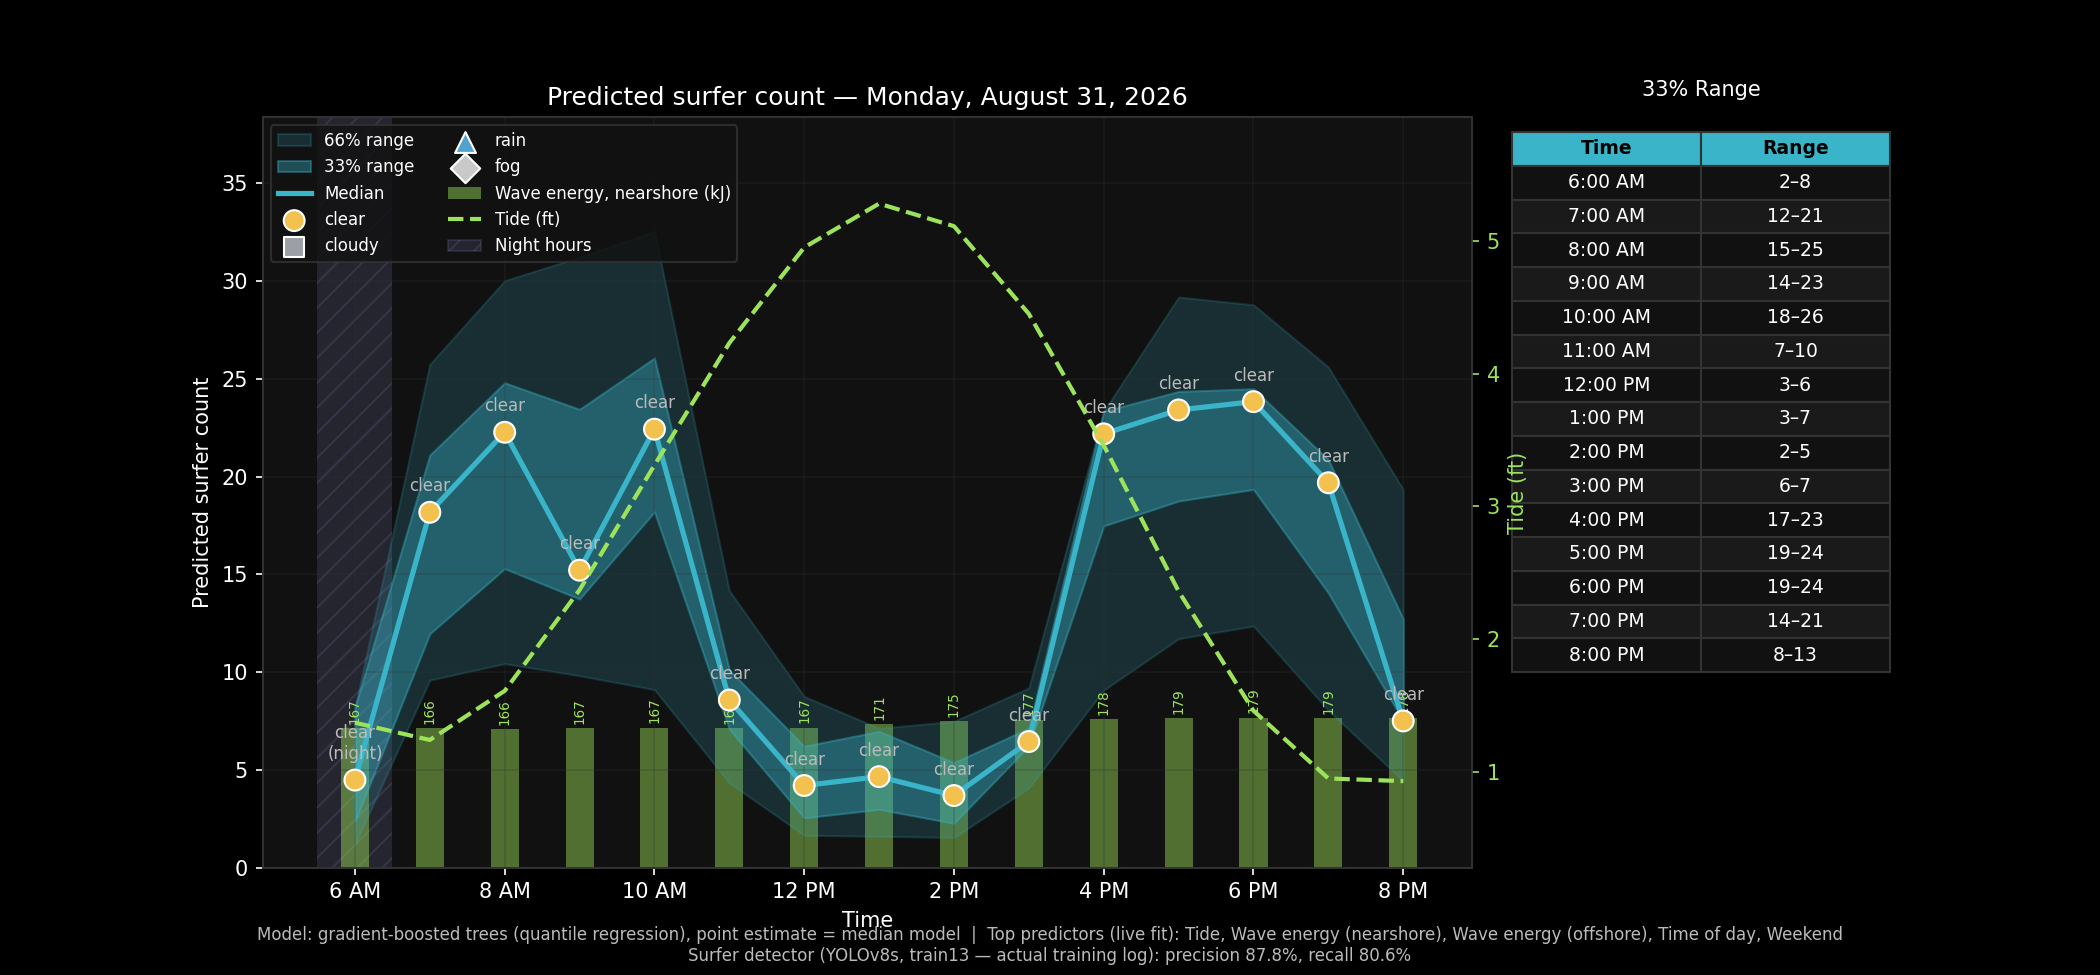
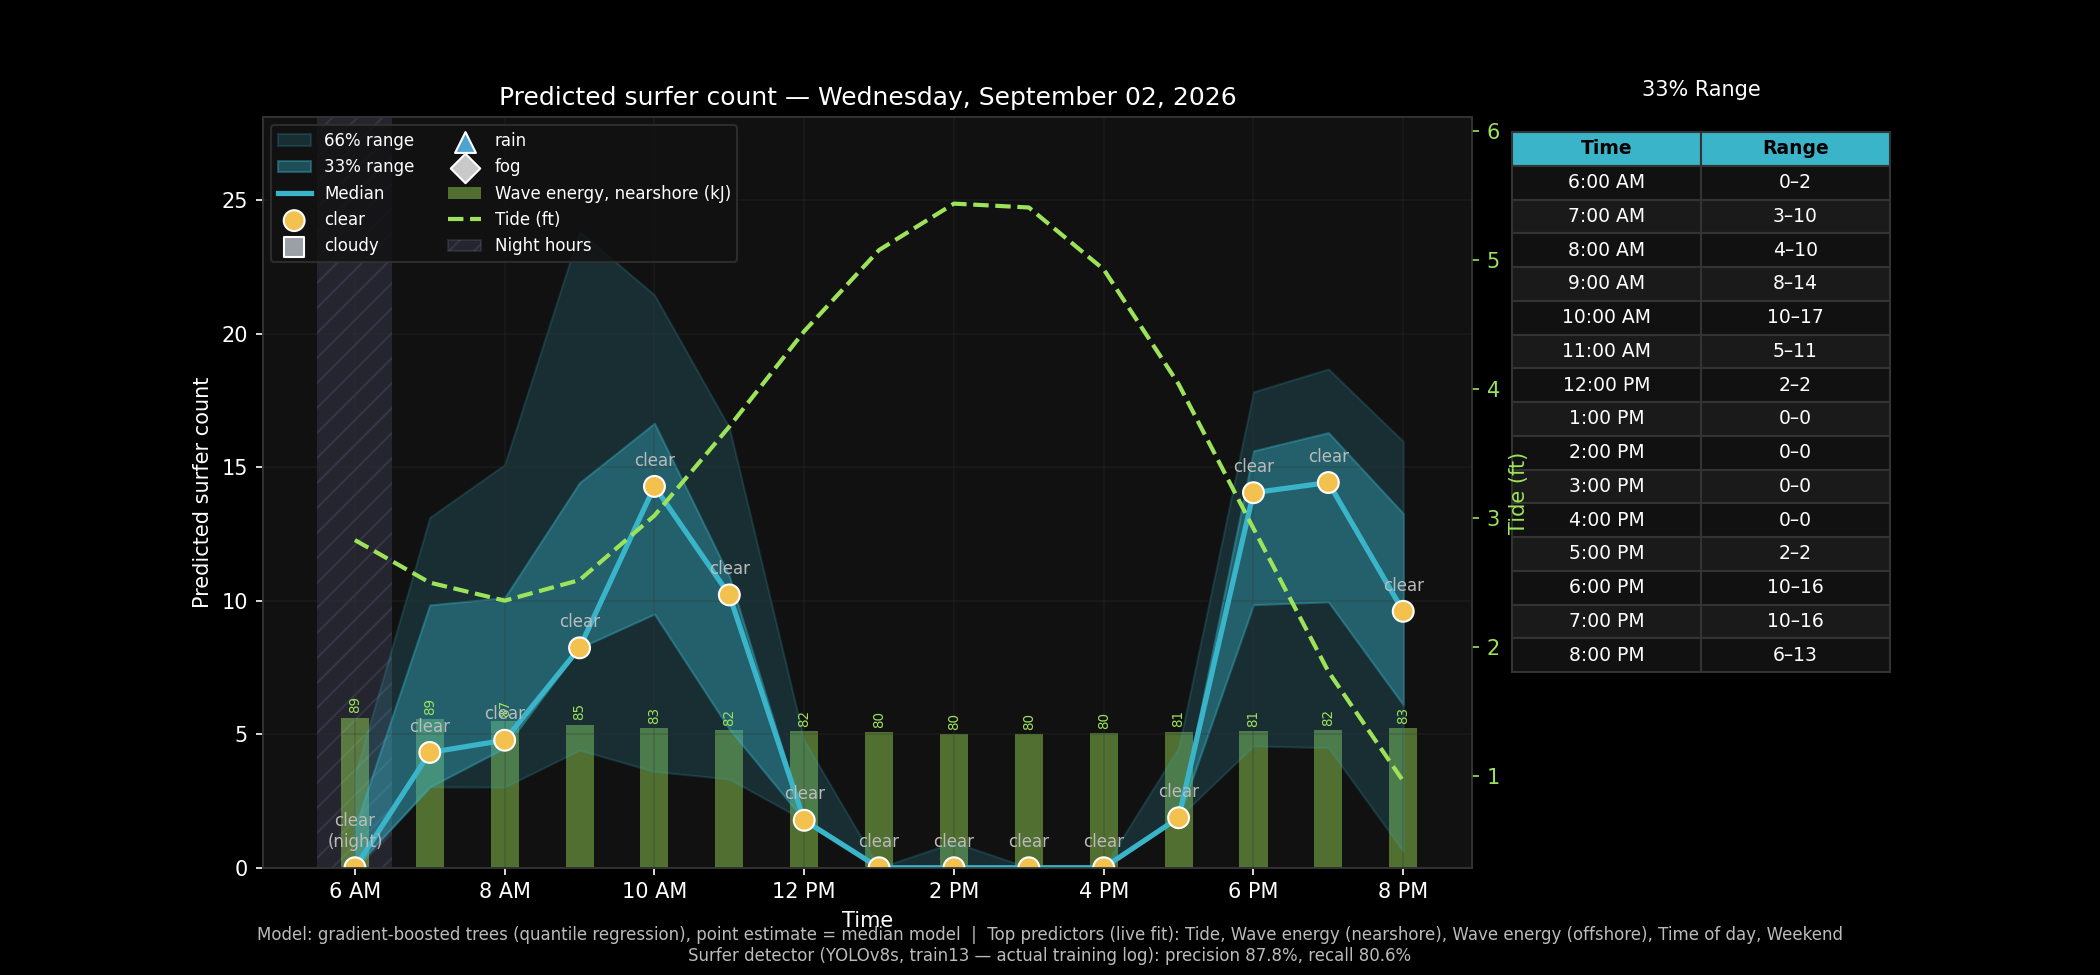
Automated: update daily surfer count chart (2026-09-01)

diff --git a/README.md b/README.md
@@ -5,11 +5,11 @@ Automated surfer counting from Surfline clips.
 This project downloads short clips around daylight hours, extracts 3 cropped frames per clip (~1.5-3s apart), runs YOLOv8 inference on tiled images, and stores per-clip surfer counts averaged across those frames.
 
 <!-- DAILY_CHART_START -->
-## A Recent Surfer Detection Count: Saturday, August 29, 2026, 7:29 AM
+## A Recent Surfer Detection Count: Tuesday, September 01, 2026, 7:56 AM
 
 ![Latest detection review](data/charts/latest_detection.png)
 
-## The Surfer Crowd Forecast for: Monday, August 31, 2026
+## The Surfer Crowd Forecast for: Wednesday, September 02, 2026
 
 ![Latest daily prediction chart](data/charts/latest.png)
 
